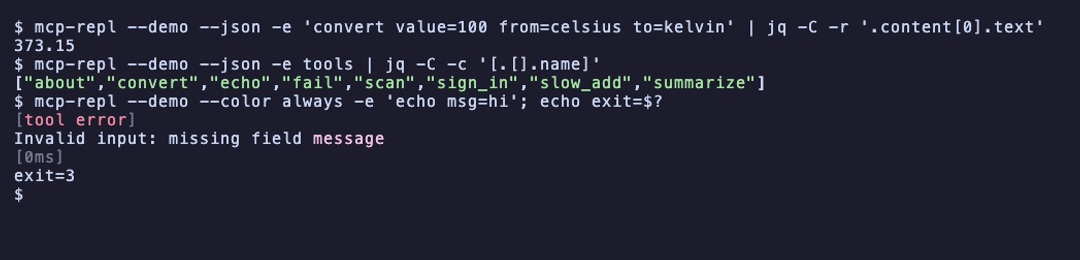
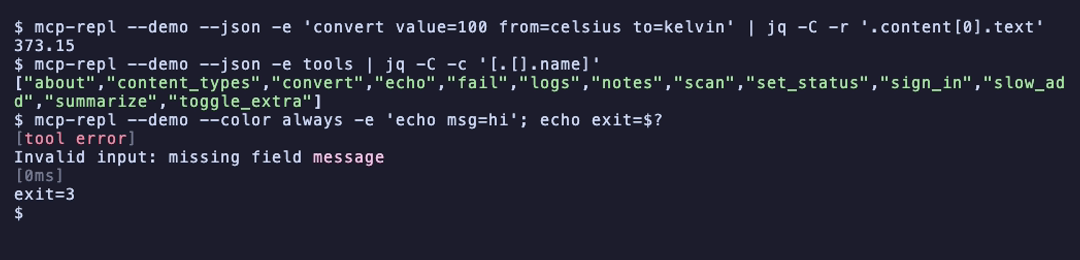
docs: refresh onboarding and add Homebrew releases (#253)
* docs: install unreleased dynamic CLI from Git

* docs: tighten onboarding and refresh recordings

* chore(release): publish Homebrew formula

Changed region(s): [[0.0, 0.2769, 1.0, 0.7692], [0.0, 0.8, 0.0306, 0.8308]]

diff --git a/README.md b/README.md
@@ -19,27 +19,23 @@ MCP client for a shell script, a CI job, or an agent.
 
 ## Install
 
-On macOS or Linux, install the latest prebuilt binary with:
+On macOS or Linux, install the latest release with Homebrew:
 
 ```bash
-curl --proto '=https' --tlsv1.2 -LsSf \
-  https://github.com/joshrotenberg/mcp-repl/releases/latest/download/mcp-repl-installer.sh | sh
+brew install joshrotenberg/brew/mcp-repl
 ```
 
-The installer is generated by cargo-dist and installs to Cargo's binary
-directory. Reading a script before piping it to a shell is the better habit.
-On Windows, download the
-`mcp-repl-x86_64-pc-windows-msvc.zip` from the
-[latest release](https://github.com/joshrotenberg/mcp-repl/releases/latest),
-extract `mcp-repl.exe`, and place it on `PATH`.
-
-Or install from source on any supported platform:
+Or, with Rust 1.90.0 or newer, install from crates.io on any supported
+platform:
 
 ```bash
 cargo install --locked mcp-repl
 ```
 
-Source installs require Rust 1.90.0 or newer.
+Prebuilt macOS, Linux, and Windows archives are also attached to the
+[latest release](https://github.com/joshrotenberg/mcp-repl/releases/latest).
+Download the archive for your platform, extract it, and place `mcp-repl` (or
+`mcp-repl.exe`) on `PATH`.
 
 Or run it without installing anything:
 
@@ -52,19 +48,76 @@ inside it, and OAuth has no credential store there. See
 [the connecting guide](https://github.com/joshrotenberg/mcp-repl/blob/main/docs/connecting.md#in-a-container)
 for what differs.
 
-Completions and a man page come from the binary itself, and ship in the
-release archives. The man page includes both startup options and the same
-REPL built-in reference shown by `help <command>`:
+Completions and a man page come from the binary itself. The man page includes
+both startup options and the same REPL built-in reference shown by
+`help <command>`:
 
 ```bash
 mcp-repl --completions zsh > ~/.zfunc/_mcp-repl
 mcp-repl --man > /usr/local/share/man/man1/mcp-repl.1
 ```
 
-Every release also publishes SHA-256 checksums, a CycloneDX SBOM, GitHub
-artifact attestations, and BuildKit provenance and SBOM attestations for the
-container. See [Verify a downloaded release](https://github.com/joshrotenberg/mcp-repl/blob/main/docs/releases.md#verify-a-downloaded-release)
+Every release also publishes SHA-256 checksums, an SBOM, GitHub artifact
+attestations, and BuildKit provenance and SBOM attestations for the container.
+See [Verify a downloaded release](https://github.com/joshrotenberg/mcp-repl/blob/main/docs/releases.md#verify-a-downloaded-release)
 for verification commands.
+
+## Start here
+
+Run the bundled demo first. It needs no config, credentials, network, or
+separate MCP server:
+
+```bash
+mcp-repl --demo
+```
+
+Then take a short tour of the live command set:
+
+```text
+mcp-repl-demo> help
+mcp-repl-demo> echo message="hello"
+mcp-repl-demo> convert value=100 from=celsius to=fahrenheit
+mcp-repl-demo> describe convert
+mcp-repl-demo> read note://ideas
+```
+
+`help` lists every built-in and server tool. `help <command>` gives usage and
+runnable examples, while `find <word>` searches tools, prompts, resources,
+templates, and built-ins. Tab completes command names, schema-derived argument
+names, and enum values.
+
+A bare invocation starts disconnected if you would rather choose or switch
+servers from inside the prompt:
+
+```text
+$ mcp-repl
+mcp-repl> connect demo
+```
+
+`connect` also accepts an HTTP URL, saved profile, imported
+`path.json:entry`, or stdio command. Run it again to switch servers without
+losing command history or global aliases. Captured variables, parameter
+defaults, background task ids, resource subscriptions, and profile-scoped
+aliases are cleared because they belong to the server being left.
+
+Then point it at something real. mcp-repl speaks stdio and streamable HTTP,
+reads the `.mcp.json` files other clients use, and can keep named profiles of
+its own:
+
+```bash
+mcp-repl --http https://cratesio-mcp.fly.dev/   # a public server to try
+mcp-repl -- ./my-server --stdio                 # spawn a stdio server
+mcp-repl --scan                                 # what other clients have configured
+mcp-repl .mcp.json:local                        # one entry from a client config
+mcp-repl --server prod                          # a saved profile
+```
+
+If a tool and built-in share a name, the bare spelling is rejected as
+ambiguous; `tool <name>` selects the server tool and `builtin <name>` selects
+the REPL command.
+
+See [the connecting guide](https://github.com/joshrotenberg/mcp-repl/blob/main/docs/connecting.md)
+for auth, OAuth, profiles, and config imports.
 
 ## One call, no prompt
 
@@ -95,8 +148,12 @@ The `unstable-dynamic-cli` Cargo feature tries a more conventional one-shot
 form while its command grammar is evaluated. It is off by default:
 
 ```bash
-cargo install mcp-repl --features unstable-dynamic-cli
+cargo install --git https://github.com/joshrotenberg/mcp-repl \
+  --features unstable-dynamic-cli
 ```
+
+This feature has not reached a crates.io release yet, so it currently needs to
+be installed from Git.
 
 With the feature enabled and an explicit connection selector, mcp-repl
 discovers the server first and projects the REPL's one-shot vocabulary into a
@@ -145,52 +202,6 @@ See [the scripting guide](https://github.com/joshrotenberg/mcp-repl/blob/main/do
 for tasks, waiting on them, and
 schema contracts.
 
-## Start here
-
-Open the REPL first and choose a server from inside it:
-
-```bash
-mcp-repl
-```
-
-```text
-mcp-repl> connect demo
-```
-
-`connect` also accepts an HTTP URL, saved profile, imported
-`path.json:entry`, or stdio command. Run it again to switch servers without
-losing command history or global aliases. Captured variables, background task
-ids, resource subscriptions, and profile-scoped aliases are cleared because
-they belong to the server being left. The direct forms connect straight to one
-server, which is what a script or a single-server session wants:
-
-```bash
-mcp-repl --demo
-```
-
-Then point it at something real. mcp-repl speaks stdio and streamable HTTP,
-reads the `.mcp.json` files other clients use, and can keep named profiles of
-its own:
-
-```bash
-mcp-repl --http https://cratesio-mcp.fly.dev/   # a public server to try
-mcp-repl -- ./my-server --stdio                 # spawn a stdio server
-mcp-repl --scan                                 # what other clients have configured
-mcp-repl .mcp.json:local                        # one entry from a client config
-mcp-repl --server prod                          # a saved profile
-```
-
-Inside, `help` lists the built-ins, `help <command>` gives usage, detail, and
-runnable examples, and `find <word>` searches the server's surface *and* the
-REPL's own commands.
-If a tool and built-in share a name, the bare spelling is rejected as
-ambiguous; `tool <name>` selects the server tool and `builtin <name>` selects
-the REPL command.
-
-See [the connecting guide](https://github.com/joshrotenberg/mcp-repl/blob/main/docs/connecting.md)
-for auth, OAuth, profiles, and
-config imports.
-
 ## What it is good at
 
 **Everything a tool declares, at the prompt.** Tab completes command names,
@@ -213,8 +224,9 @@ model for a completion.
 
 **A shell, not just a viewer.** Capture a result into a variable, reference it
 in a later command, filter it with a path, alias a command you type often, and
-time a tool with `bench`. `wire on` traces redacted JSON-RPC frames to stderr,
-and `last` reprints the previous exchange whether or not tracing was on.
+set parameter defaults shared by several calls. Time a tool with `bench`, trace
+redacted JSON-RPC frames with `wire on`, and use `last` to reprint the previous
+exchange whether or not tracing was on.
 
 **Scriptable.** `-e/--exec` runs commands and exits; `--json` makes stdout
 [NDJSON](https://github.com/ndjson/ndjson-spec), one value per command, with
@@ -234,6 +246,7 @@ by deciding it:
 | `command \| path` | a pipe into a filter |
 | `command &`, `jobs`, `wait`, `cancel` | job control |
 | `alias`, `unalias` | aliases |
+| `bind key=value`, `binds`, `unbind` | per-connection parameter defaults |
 | `for $var in $list: command` | `for` |
 | `tool <name>`, `builtin <name>` | `command` and `builtin`, for shadowed names |
 | `history`, Ctrl-R | history |

diff --git a/docs/commands.md b/docs/commands.md
@@ -15,8 +15,8 @@ the reasoning around those commands rather than a second flag manual.
 ## What to try
 
 Start with `mcp-repl`, then run `connect demo` (or start directly with
-`mcp-repl --demo`). The demo needs no external server, and its tools are typed so the features
-that depend on a schema are all reachable:
+`mcp-repl --demo`). The demo needs no external server, and its tools are typed
+so the features that depend on a schema are all reachable:
 
 ```text
 mcp-repl-demo> help                        # built-ins plus the server's tools
@@ -24,6 +24,7 @@ mcp-repl-demo> help wait                   # what one built-in does
 mcp-repl-demo> echo <Tab>                  # completes `message=` and `repeat=`, with types
 mcp-repl-demo> echo message="hi there"     # args coerced by inputSchema
 mcp-repl-demo> echo msg=hi                 # refused: `message` is required
+mcp-repl-demo> bind repeat=2               # default a parameter across calls
 mcp-repl-demo> convert value=100 from=celsius to=<Tab>  # completes the enum values
 mcp-repl-demo> slow_add a=2 b=3 &          # runs task-augmented; `jobs`, `wait 1`
 mcp-repl-demo> logs                        # four severities; `loglevel` filters them
@@ -394,17 +395,45 @@ dl = "get_downloads"
 With no platform config directory and no `--config`, aliases still work for
 the session and the REPL says they were not saved.
 
+## Parameter defaults
+
+`bind <param>=<value>` supplies a default whenever a tool declares that
+parameter and the call omits it. An explicit argument always wins:
+
+```text
+mcp-repl-demo> bind repeat=3
+repeat = 3
+mcp-repl-demo> echo message=hello
+hello hello hello
+mcp-repl-demo> echo message=hello repeat=1
+hello
+mcp-repl-demo> binds
+repeat  3
+mcp-repl-demo> unbind repeat
+removed repeat
+```
+
+Values are stored as written and coerced from each tool's `inputSchema` when
+the call runs. That lets one bind apply to tools that share a parameter name,
+even when their schemas use different types. A bind for a parameter no current
+tool declares warns instead of appearing to work silently.
+
+`bind <name>` shows one current value, `binds` lists them all, and
+`unbind <name>` removes one. Binds last for the current connection only;
+`connect` clears them so a server-specific session id or tenant cannot leak
+into the next server.
+
 ## Capture and filtering
 
 The REPL is a small shell. A command's result can be captured into a variable,
 referenced in later arguments, or filtered inline.
 
 ```text
-demo> x = search_crates query=serde
+cratesio> x = search_crates query=serde
 $x = {2 fields}
-demo> get_crate_info name=$x.crates[0].name
+cratesio> get_crate_info name=$x.crates[0].name
 ...
-demo> get_crate_info name=serde | crates[0].downloads
+cratesio> get_crate_info name=serde | crates[0].downloads
 11897234
 ```
 

diff --git a/SECURITY.md b/SECURITY.md
@@ -2,10 +2,10 @@
 
 ## Supported Versions
 
-| Version | Supported |
-|---------|-----------|
-| Latest published minor release line | Yes |
-| Earlier release lines | No |
+| Version                             | Supported |
+| ----------------------------------- | --------- |
+| Latest published minor release line | Yes       |
+| Earlier release lines               | No        |
 
 mcp-repl is pre-1.0 and moves quickly. Security fixes are released from the
 current line rather than backported; upgrade to the latest release before
@@ -17,11 +17,13 @@ Versions before 0.2.0 were released from the
 
 ## Reporting a Vulnerability
 
-Please report security vulnerabilities via [GitHub Security Advisories](https://github.com/joshrotenberg/mcp-repl/security/advisories/new).
+Please report security vulnerabilities via
+[GitHub Security Advisories](https://github.com/joshrotenberg/mcp-repl/security/advisories/new).
 
 Do **not** open a public issue for security vulnerabilities.
 
-You should receive an initial response within 72 hours. If a vulnerability is confirmed, a fix will be released as soon as possible, typically within 7 days.
+You should receive an initial response within 72 hours. If a vulnerability is
+confirmed, a fix will be released as soon as possible, typically within 7 days.
 
 ## Scope
 

diff --git a/docs/releases.md b/docs/releases.md
@@ -17,8 +17,9 @@ runner or script suite.
 4. On the resulting push to `main`, release-plz publishes the crate through
    crates.io trusted publishing and creates the exact release tag.
 5. The workflow dispatches cargo-dist at that tag. cargo-dist builds the native
-   archives, checksums, installer, SBOM, and GitHub attestations, then creates
-   the GitHub Release.
+   archives, checksums, shell and Homebrew installers, SBOM, and GitHub
+   attestations, then creates the GitHub Release and updates the formula in
+   `joshrotenberg/homebrew-brew`.
 6. The same tagged source is built for `linux/amd64` and `linux/arm64` and
    published to GHCR as the version and `latest` tags with BuildKit provenance
    and SBOM attestations.
@@ -42,6 +43,11 @@ Configure a crates.io trusted publisher for:
 
 Protect the `crates-io` environment so only the `main` branch can deploy to it.
 No long-lived crates.io token is needed.
+
+Add a repository Actions secret named `HOMEBREW_TAP_TOKEN`. It should be a
+fine-grained personal access token limited to `joshrotenberg/homebrew-brew`,
+with repository Contents permission set to read and write. cargo-dist uses it
+only to commit each release's formula to the tap.
 
 ## Local checks
 

diff --git a/CONTRIBUTING.md b/CONTRIBUTING.md
@@ -25,7 +25,7 @@ apply here, is the useful form for that discussion.
 cargo fmt --all -- --check
 cargo clippy --all-targets --all-features -- -D warnings
 cargo test --all-targets --all-features
-RUSTDOCFLAGS="-Dwarnings" cargo doc --no-deps --all-features
+RUSTDOCFLAGS="-D warnings" cargo doc --locked --no-deps --all-features
 ```
 
 All of these must pass before submitting a PR. The black-box tests build and
@@ -72,9 +72,10 @@ cargo llvm-cov --all-features --workspace --html
 
 The report starts at `target/llvm-cov/html/index.html`. For a compact baseline
 without opening or generating a browser report, run
-`cargo llvm-cov --all-features --workspace --summary-only`. Coverage is a map to untested branches,
-not a merge threshold: prioritize security boundaries, state restoration, and
-editor behavior over a repository-wide vanity percentage.
+`cargo llvm-cov --all-features --workspace --summary-only`. Coverage is a map
+to untested branches, not a merge threshold: prioritize security boundaries,
+state restoration, and editor behavior over a repository-wide vanity
+percentage.
 
 Adding or updating a dependency also needs:
 

diff --git a/docs/connecting.md b/docs/connecting.md
@@ -499,8 +499,10 @@ prompt; the session, its history, and any background tasks survive. At the
 prompt it keeps its usual meaning and clears the line. In `--exec` mode an
 interrupt stops the sequence and exits 6.
 
-Cancelling stops the REPL waiting; it does not tell the server to stop. A
-tool with side effects may still be running on the other end.
+Cancelling drops the in-flight request and sends the server an MCP
+`notifications/cancelled` notification naming it. A server that honors the
+notification stops the work too; one that ignores cancellation may continue,
+so side effects already in progress cannot be assumed to have rolled back.
 
 A server that accepts a request and never answers is a different problem,
 since a script has nobody to press Ctrl-C. `--timeout <seconds>` (default

diff --git a/docs/scripting.md b/docs/scripting.md
@@ -79,8 +79,8 @@ wrappers). REPL-only commands use documented convenience values or envelopes:
 `find` and `subscriptions` return arrays; `describe` returns
 `{"kind": ..., "definition": ...}`; `snapshot` returns its canonical contract
 or a file acknowledgement; `validate` returns its compatibility report; and
-`help`, `bench`, `jobs`, aliases, `wire`, `last`, `refresh`, `info`, `vars`,
-`unset`, and `quit` return objects.
+`help`, `bench`, `jobs`, aliases, parameter binds, `wire`, `last`, `refresh`,
+`info`, `vars`, `unset`, and `quit` return objects.
 
 JSON errors stay on stdout so they occupy that command's one output line:
 

diff --git a/CHANGELOG.md b/CHANGELOG.md
@@ -4,6 +4,14 @@ All notable changes to this project will be documented in this file.
 
 ## [0.3.6] - 2026-08-23
 
+### Bug Fixes
+
+- Resolve bare server programs through `PATHEXT` on Windows (#248)
+- Give schema-rich help enough stack space on Windows (#248)
+
+### Miscellaneous Tasks
+
+- Replace the custom binary distribution pipeline with cargo-dist (#248)
 
 
 ## [0.3.5] - 2026-08-23
@@ -313,5 +321,4 @@ All notable changes to this project will be documented in this file.
 ### Miscellaneous Tasks
 
 - **mcp-repl:** Prepare for crates.io publishing ([#980](https://github.com/joshrotenberg/tower-mcp/pull/980))
-
 
